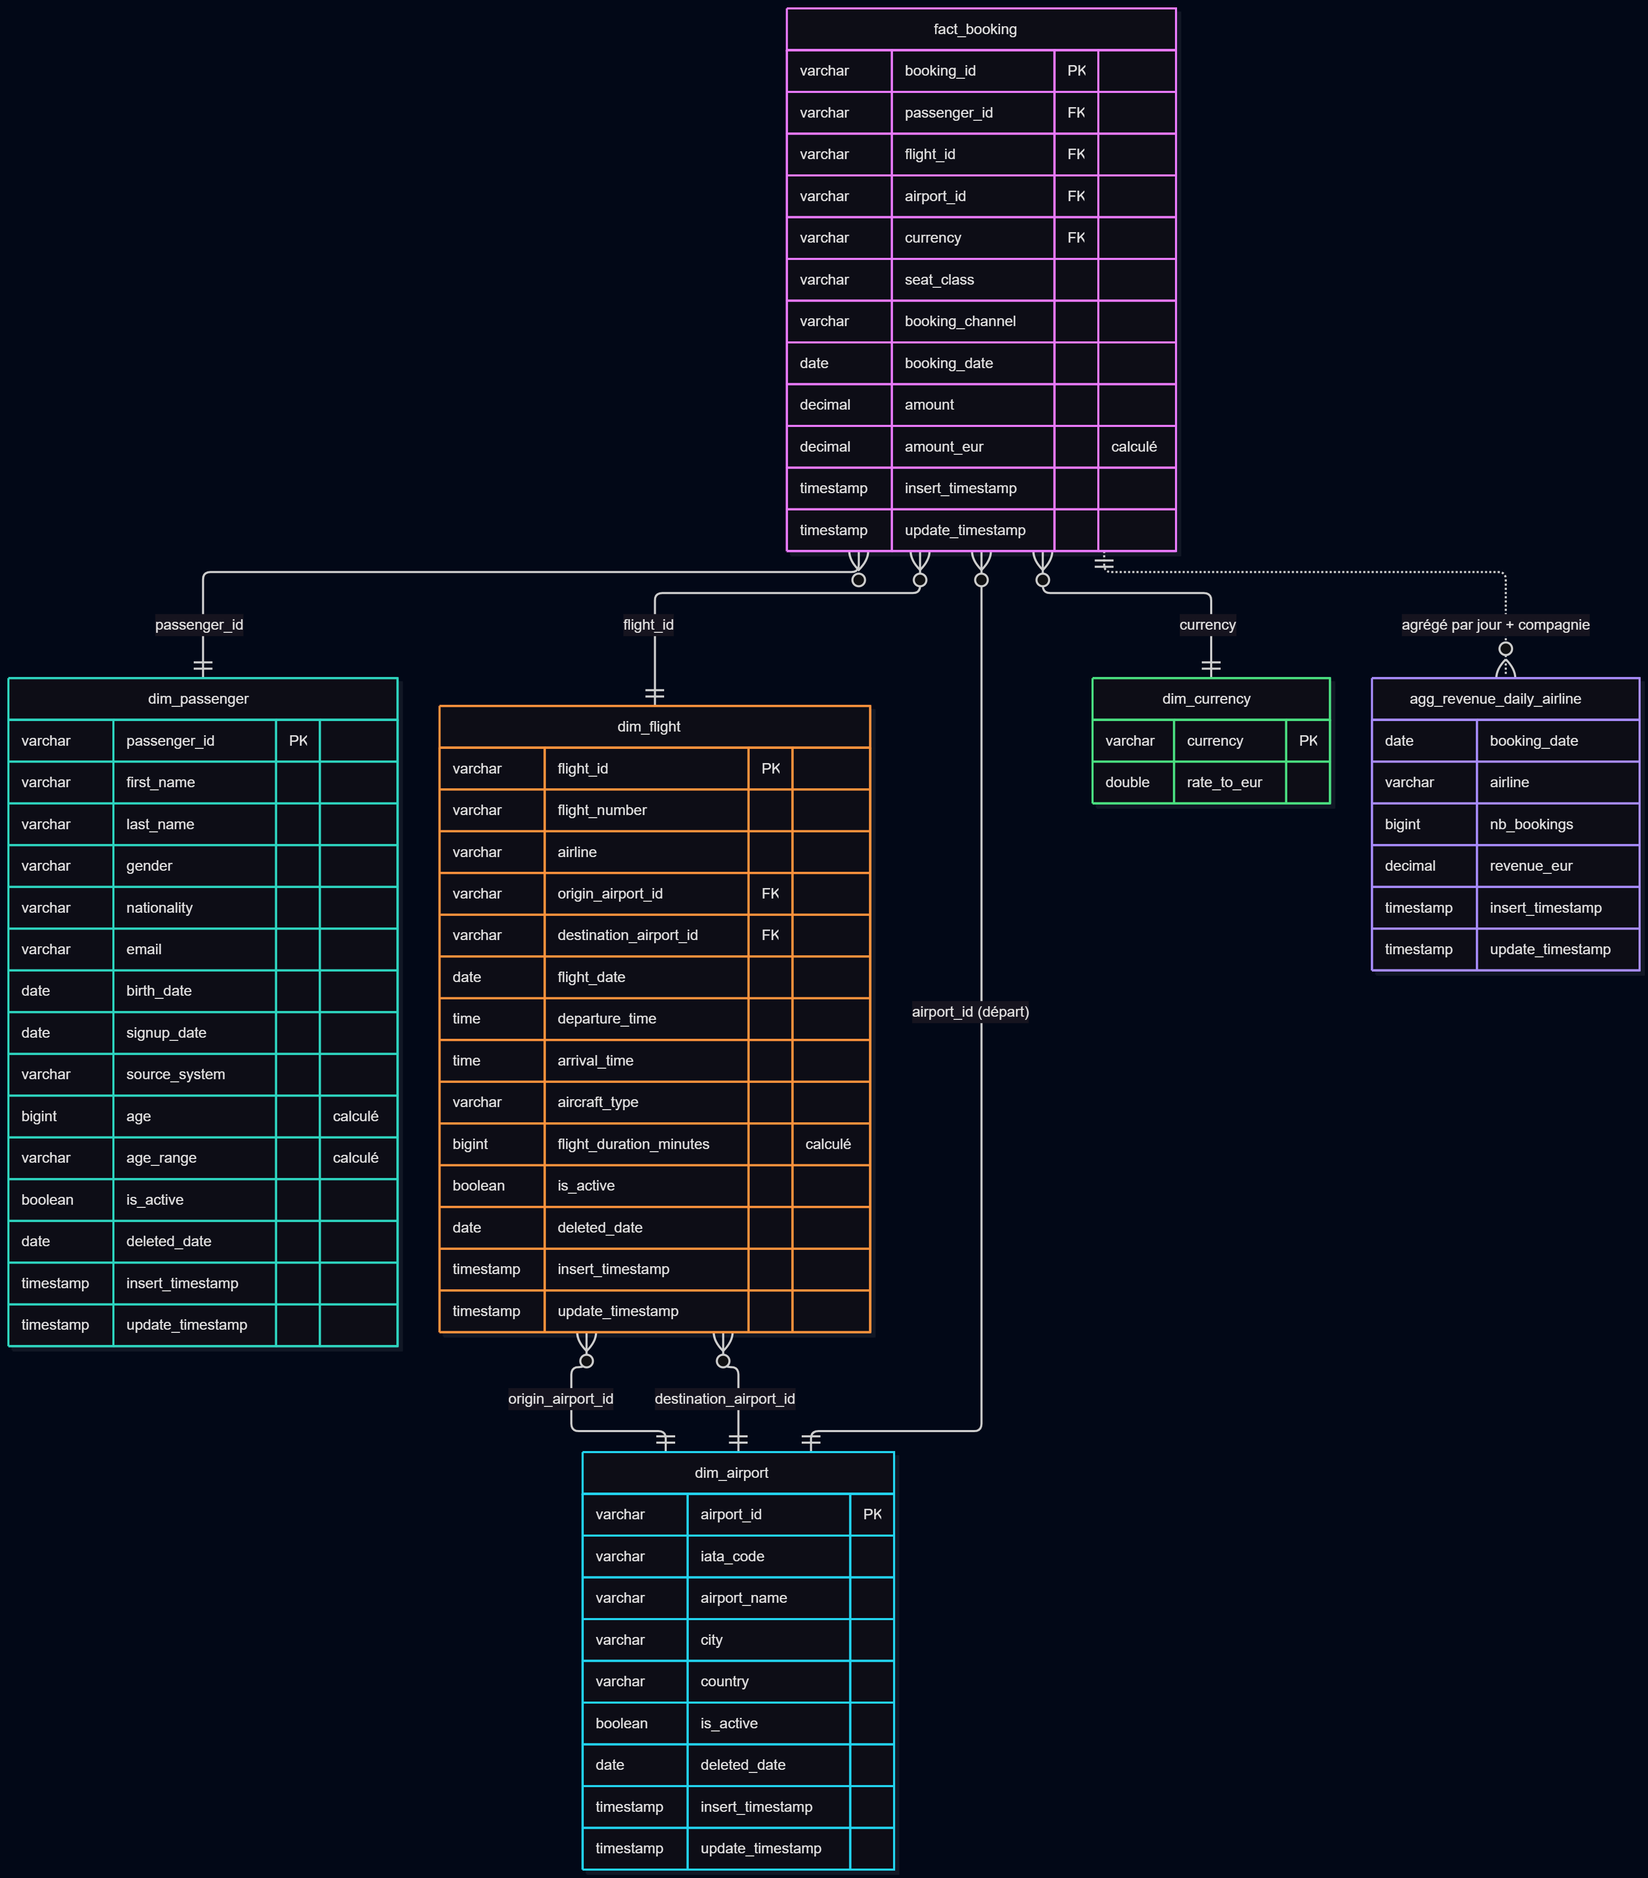
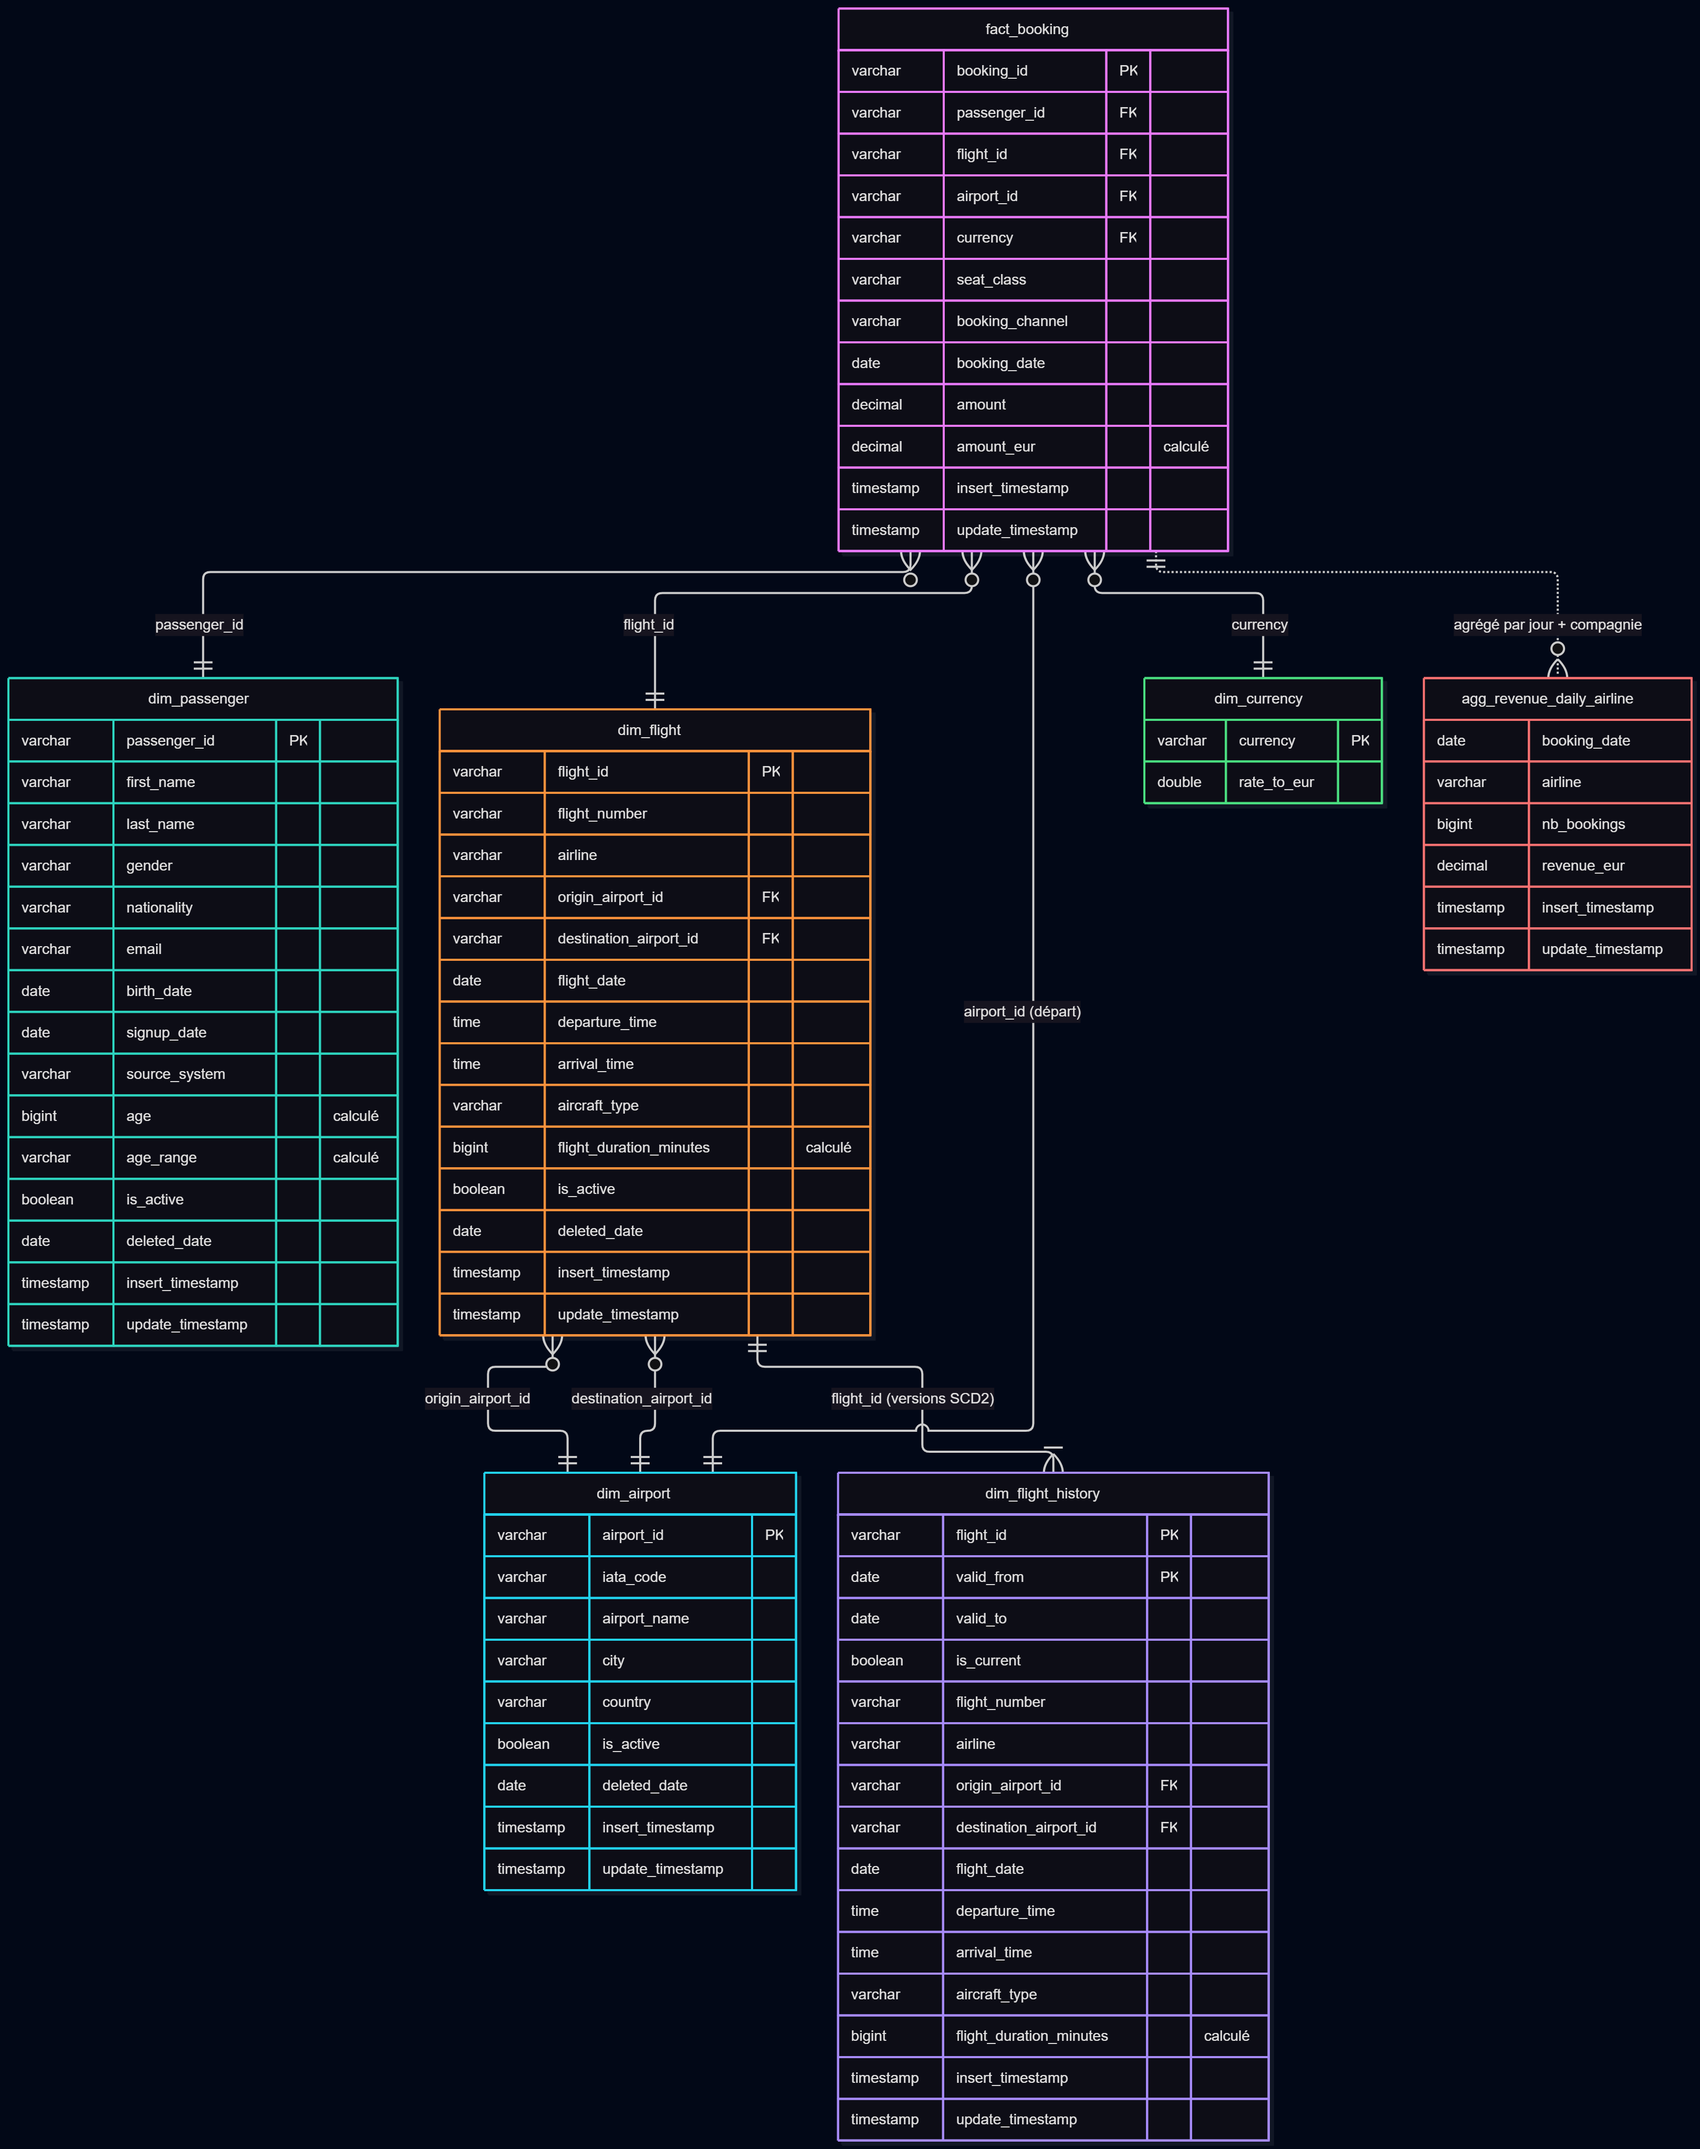
feat: add SCD2 bonus on flights table

Changed region(s): [[0.0, 0.0, 0.7493, 1.0], [0.6556, 0.2794, 0.999, 0.5277]]

diff --git a/ingestion/ingest_flights.py b/ingestion/ingest_flights.py
@@ -97,8 +97,105 @@ def ingest_silver(day: date = None, init: bool = False):
         [snapshot_date],
     )
 
+    load_history(con, snapshot_date)  # bonus SCD2, à partir du même snapshot
+
     con.unregister("snapshot")
     con.close()
+
+
+# ---------------------------------------------------------------------------------------------
+# Bonus SCD2 : historique complet des vols.
+#
+# silver_flights (au-dessus) ne garde que la DERNIÈRE version de chaque vol (SCD1 : on écrase).
+# silver_flights_history garde TOUTES les versions, chacune avec sa période de validité :
+#   valid_from = 1er jour où cette version est vue
+#   valid_to   = jour où elle a été remplacée ou a disparu (NULL = version encore en cours)
+# Une version est donc valable du valid_from (inclus) au valid_to (exclu).
+#
+# Exemple : F0042 change d'avion le 2025-09-10
+#   F0042 | Airbus A320 | valid_from 2025-08-31 | valid_to 2025-09-10 | is_current false
+#   F0042 | Boeing 737  | valid_from 2025-09-10 | valid_to NULL       | is_current true
+
+def create_history_table(con):
+    con.execute("""
+        CREATE TABLE IF NOT EXISTS silver_flights_history (
+            flight_id VARCHAR,
+            flight_number VARCHAR,
+            airline VARCHAR,
+            origin_airport_id VARCHAR,
+            destination_airport_id VARCHAR,
+            flight_date DATE,
+            departure_time TIME,
+            arrival_time TIME,
+            aircraft_type VARCHAR,
+            valid_from DATE,
+            valid_to DATE,
+            is_current BOOLEAN,
+            insert_timestamp TIMESTAMP,
+            update_timestamp TIMESTAMP,
+            PRIMARY KEY (flight_id, valid_from)  -- un vol a au plus une version par jour
+        )
+    """)
+
+
+def load_history(con, snapshot_date: date):
+    """Met à jour silver_flights_history à partir du snapshot du jour (table "snapshot")."""
+    create_history_table(con)
+
+    con.execute("DELETE FROM silver_flights_history WHERE valid_from >= ?", [snapshot_date])
+    con.execute(
+        """
+        UPDATE silver_flights_history SET valid_to = NULL, is_current = true
+        WHERE valid_to >= ?
+        """,
+        [snapshot_date],
+    )
+
+    con.execute("""
+        CREATE OR REPLACE TEMP TABLE snapshot_typed AS
+        SELECT
+            flight_id, flight_number, airline, origin_airport_id, destination_airport_id,
+            CAST(flight_date AS DATE) AS flight_date,
+            CAST(departure_time AS TIME) AS departure_time,
+            CAST(arrival_time AS TIME) AS arrival_time,
+            aircraft_type
+        FROM snapshot
+    """)
+
+    con.execute(
+        """
+        UPDATE silver_flights_history AS h
+        SET valid_to = ?, is_current = false, update_timestamp = now()
+        WHERE h.is_current = true
+          AND NOT EXISTS (
+              SELECT 1 FROM snapshot_typed AS s
+              WHERE s.flight_id = h.flight_id
+                AND s.flight_number IS NOT DISTINCT FROM h.flight_number
+                AND s.airline IS NOT DISTINCT FROM h.airline
+                AND s.origin_airport_id IS NOT DISTINCT FROM h.origin_airport_id
+                AND s.destination_airport_id IS NOT DISTINCT FROM h.destination_airport_id
+                AND s.flight_date IS NOT DISTINCT FROM h.flight_date
+                AND s.departure_time IS NOT DISTINCT FROM h.departure_time
+                AND s.arrival_time IS NOT DISTINCT FROM h.arrival_time
+                AND s.aircraft_type IS NOT DISTINCT FROM h.aircraft_type
+          )
+        """,
+        [snapshot_date],
+    )
+
+    con.execute(
+        """
+        INSERT INTO silver_flights_history
+        SELECT s.*, ?, NULL, true, now(), now()   -- valid_from, valid_to, is_current, timestamps
+        FROM snapshot_typed AS s
+        WHERE s.flight_id NOT IN (
+            SELECT flight_id FROM silver_flights_history WHERE is_current = true
+        )
+        """,
+        [snapshot_date],
+    )
+
+    con.execute("DROP TABLE snapshot_typed")
 
 
 def ingest_gold():
@@ -110,18 +207,28 @@ def ingest_gold():
         est négative, on ajoute 24 h = 1440 min pour obtenir la vraie durée (731 min).
     """
     con = get_connection()
-    con.execute("""
+    con.execute(f"""
         CREATE OR REPLACE TABLE dim_flight AS
-        SELECT
-            *,
-            CASE
-                WHEN arrival_time >= departure_time
-                    THEN date_diff('minute', departure_time, arrival_time)
-                ELSE date_diff('minute', departure_time, arrival_time) + 1440
-            END AS flight_duration_minutes
+        SELECT *, {DURATION_SQL} AS flight_duration_minutes
         FROM silver_flights
     """)
+    # Bonus SCD2
+    con.execute(f"""
+        CREATE OR REPLACE TABLE dim_flight_history AS
+        SELECT *, {DURATION_SQL} AS flight_duration_minutes
+        FROM silver_flights_history
+    """)
     con.close()
+
+
+# Formule de durée partagée par dim_flight et dim_flight_history (écrite une seule fois).
+DURATION_SQL = """
+    CASE
+        WHEN arrival_time >= departure_time
+            THEN date_diff('minute', departure_time, arrival_time)
+        ELSE date_diff('minute', departure_time, arrival_time) + 1440
+    END
+"""
 
 
 def init():

diff --git a/DOCUMENTATION.md b/DOCUMENTATION.md
@@ -27,7 +27,8 @@ sont du **contexte** qui décrit ces évènements et qui évolue dans le temps :
   depuis le disque (`fetch_csv`). C'est notre copie locale, qui permet de tout rejouer sans la source.
 - **Silver** (DuckDB, `silver_*`) : une table par entité, typée (vraies `DATE`, `TIME`, `DECIMAL`) et
   au schéma unique.
-- **Gold** (DuckDB) : schéma en étoile `fact_booking` + dimensions, et une table d'agrégation.
+- **Gold** (DuckDB) : schéma en étoile `fact_booking` + dimensions, une table d'agrégation, et
+  `dim_flight_history`, l'historique complet des vols (bonus SCD2, cf. section 5).
 
 Chaque entité a un script avec 3 fonctions (`ingest_bronze`, `ingest_silver`, `ingest_gold`). Chaque
 fonction ne lit que ce que la précédente a persisté (fichier bronze, puis table silver).
@@ -38,6 +39,7 @@ fonction ne lit que ce que la précédente a persisté (fichier bronze, puis tab
 |---|---|---|
 | `silver_airports`, `silver_flights`, `silver_passengers` | **Upsert** (`INSERT ... ON CONFLICT DO UPDATE`) **+ désactivation** | Le fichier du jour est l'état complet de la source : une clé nouvelle est insérée, une clé connue est mise à jour, une clé **absente** a été supprimée à la source. |
 | `silver_bookings` | **Insert simple** (`INSERT ... ON CONFLICT DO NOTHING`) | Le fichier ne contient que les nouveautés du jour, et une réservation ne change jamais. Une clé absente ne veut rien dire (elle a été réservée un autre jour), donc pas de désactivation. |
+| `silver_flights_history` (bonus) | **SCD2** : fermeture de la version en cours + insertion d'une nouvelle version | On veut garder chaque version d'un vol, pas seulement la dernière (cf. section 5). |
 
 **Suppressions.** On ne supprime jamais physiquement une ligne de dimension : des réservations déjà
 faites la référencent, la supprimer casserait l'intégrité du modèle. La ligne passe à
@@ -47,7 +49,7 @@ faites la référencent, la supprimer casserait l'intégrité du modèle. La lig
 primaire, et le gold est reconstruit entièrement (`CREATE OR REPLACE`). Vérifié en rejouant tout le
 mois deux fois : contenu identique.
 
-**Colonnes techniques.** Comme vu en cours, nous intégrons des colonnes techniques, essentielles pour le jeu de données, ur toutes les tables silver et gold : `insert_timestamp` (première
+**Colonnes techniques.** Comme vu en cours, nous intégrons des colonnes techniques, essentielles pour le jeu de données, sur toutes les tables silver et gold : `insert_timestamp` (première
 apparition, jamais modifié) et `update_timestamp` (rafraîchi à chaque upsert ou désactivation).
 
 **Consolidation des passagers.** Nous avions des passagers avec des colonnes différentes selon la nationalité. Nous avons donc, via un `UNION ALL`, harmoniser vers un seul schéma (écrit en langue anglaise) :
@@ -76,6 +78,7 @@ erDiagram
     fact_booking }o--|| dim_currency : "currency"
     dim_flight }o--|| dim_airport : "origin_airport_id"
     dim_flight }o--|| dim_airport : "destination_airport_id"
+    dim_flight ||--|{ dim_flight_history : "flight_id (versions SCD2)"
     fact_booking ||..o{ agg_revenue_daily_airline : "agrégé par jour + compagnie"
 
     fact_booking {
@@ -105,6 +108,23 @@ erDiagram
         bigint flight_duration_minutes "calculé"
         boolean is_active
         date deleted_date
+        timestamp insert_timestamp
+        timestamp update_timestamp
+    }
+    dim_flight_history {
+        varchar flight_id PK
+        date valid_from PK
+        date valid_to
+        boolean is_current
+        varchar flight_number
+        varchar airline
+        varchar origin_airport_id FK
+        varchar destination_airport_id FK
+        date flight_date
+        time departure_time
+        time arrival_time
+        varchar aircraft_type
+        bigint flight_duration_minutes "calculé"
         timestamp insert_timestamp
         timestamp update_timestamp
     }
@@ -169,10 +189,49 @@ par `ingestion/build_aggregates.py`, **une seule fois après la boucle quotidien
 plutôt que dans l'`ingest_gold` d'une entité : elle dépend de plusieurs tables gold (`fact_booking` et
 `dim_flight`) et se reconstruit entièrement à partir du gold, inutile de la recalculer chaque jour.
 
-## 5. Limites connues
+## 5. Bonus : SCD2
 
-- **Pas d'historique des dimensions (SCD1)** : l'upsert écrase l'ancienne valeur. On sait l'horaire
-  *actuel* d'un vol, pas celui en vigueur au moment d'une réservation passée.
+**Pourquoi les vols ?** C'est la dimension qui change le plus (horaire, avion, date modifiés presque
+chaque jour). Avec le seul upsert (SCD1), l'ancienne valeur est écrasée : impossible de savoir quel avion
+était prévu sur un vol à une date passée.
+
+**Principe.** `silver_flights_history` garde **toutes les versions** de chaque vol, avec leur période de
+validité : `valid_from` (inclus) → `valid_to` (exclu, `NULL` = version en cours), et `is_current`.
+Clé primaire : `(flight_id, valid_from)`.
+
+| flight_id | aircraft_type | valid_from | valid_to | is_current |
+|---|---|---|---|---|
+| F0141 | Airbus A321 | 2025-08-31 | 2025-09-08 | false |
+| F0141 | Airbus A330 | 2025-09-08 | NULL | true |
+
+**Chargement** (`load_history`, appelée dans `ingest_silver` sur le même snapshot) :
+
+1. **Fermer** les versions en cours qui ne sont plus vraies : vol absent du snapshot, ou au moins une
+   valeur différente (`valid_to = jour`, `is_current = false`). La comparaison utilise
+   `IS NOT DISTINCT FROM`, qui traite correctement les `NULL`.
+2. **Ouvrir** une nouvelle version pour chaque vol du snapshot sans version en cours (nouveau vol, ou
+   version fermée à l'étape 1).
+3. **Rejouabilité** : avant tout, ce qu'un éventuel chargement précédent du même jour (ou des jours
+   suivants) avait produit est annulé (versions créées à partir de ce jour supprimées, versions fermées
+   à partir de ce jour rouvertes), puis le jour est rechargé. Relancer un jour ne crée donc pas de doublon.
+
+**Pourquoi une table à côté plutôt que remplacer `dim_flight` ?** Dans l'historique, un `flight_id`
+apparaît plusieurs fois : joindre `fact_booking` dessus sur le seul `flight_id` dupliquerait les
+réservations. `dim_flight` (SCD1, une ligne par vol) reste donc la dimension du schéma en étoile, et
+`dim_flight_history` sert aux questions « à une date donnée » :
+
+```sql
+-- Quel avion était affecté au vol F0141 le 5 septembre 2025 ?  -> Airbus A321 (A330 à partir du 8)
+SELECT aircraft_type FROM dim_flight_history
+WHERE flight_id = 'F0141'
+  AND valid_from <= DATE '2025-09-05'
+  AND (valid_to > DATE '2025-09-05' OR valid_to IS NULL);
+```
+
+## 6. Limites connues
+
+- **Historique uniquement sur les vols** : aéroports et passagers restent en SCD1 (l'upsert écrase
+  l'ancienne valeur). La même logique SCD2 pourrait leur être appliquée.
 - **`update_timestamp` rafraîchi à chaque passage**, même sans vrai changement de valeur (pattern du
   modèle `ingest_airports.py`) : il ne permet pas de dater précisément une modification.
 - **Durée de vol** : on suppose que départ et arrivée sont dans le même fuseau horaire et qu'aucun vol ne dépasse 24 h.
